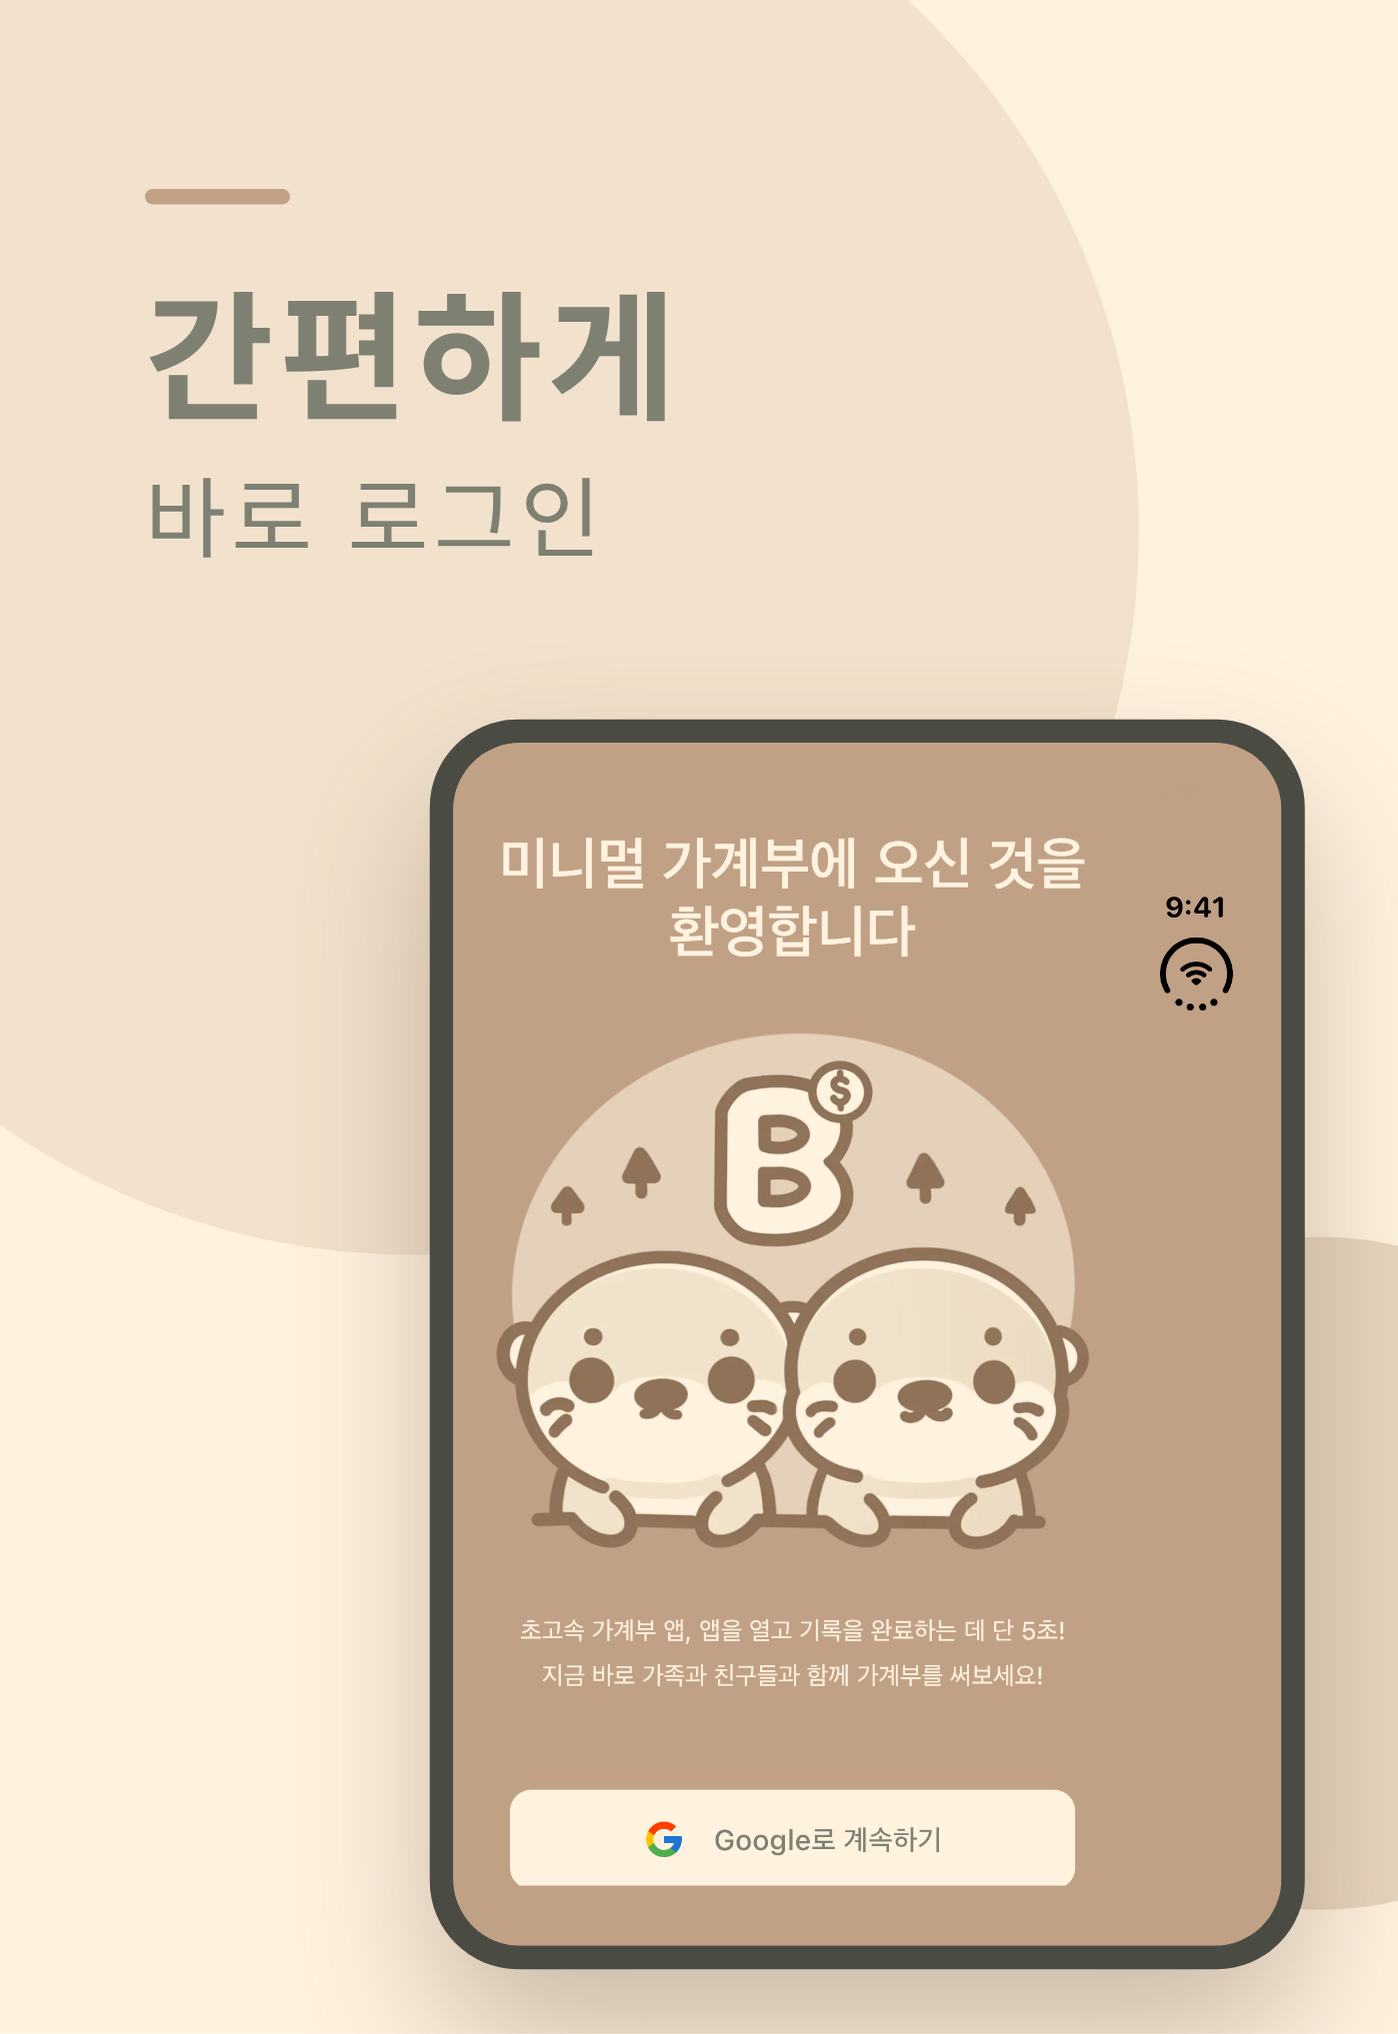
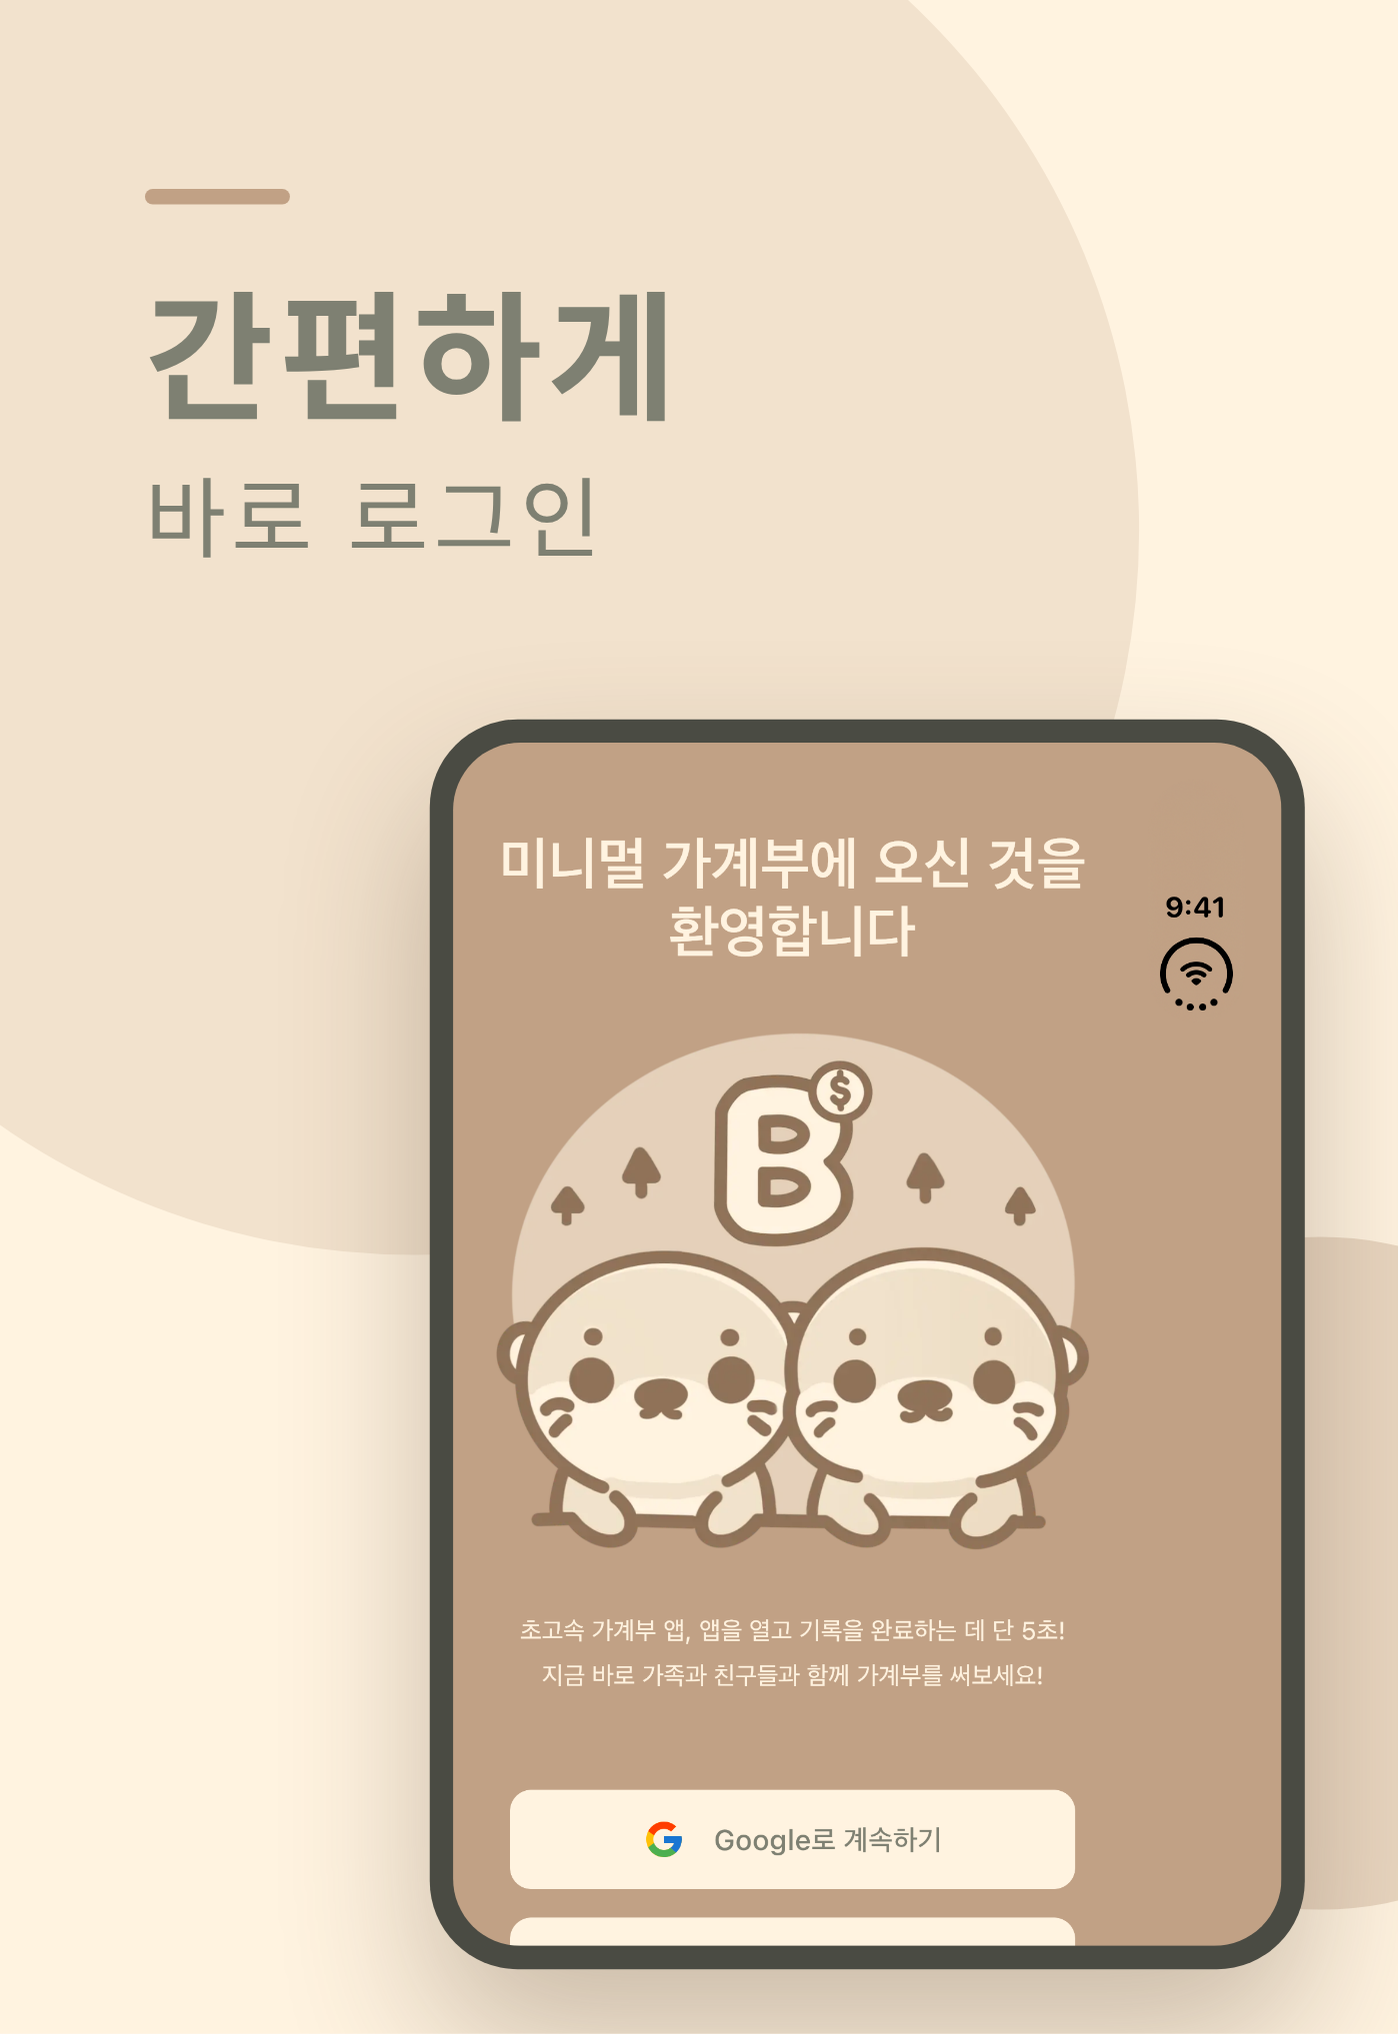
Use safe area insets on the auth screen

Changed region(s): [[0.3691, 0.9292, 0.769, 0.9602]]

diff --git a/feature/auth/src/commonMain/kotlin/com/kevlina/budgetplus/feature/auth/ui/AuthContent.kt b/feature/auth/src/commonMain/kotlin/com/kevlina/budgetplus/feature/auth/ui/AuthContent.kt
@@ -5,12 +5,14 @@ import androidx.compose.foundation.layout.Arrangement
 import androidx.compose.foundation.layout.Box
 import androidx.compose.foundation.layout.Column
 import androidx.compose.foundation.layout.Spacer
+import androidx.compose.foundation.layout.WindowInsets
 import androidx.compose.foundation.layout.fillMaxHeight
 import androidx.compose.foundation.layout.fillMaxSize
 import androidx.compose.foundation.layout.fillMaxWidth
 import androidx.compose.foundation.layout.height
 import androidx.compose.foundation.layout.padding
 import androidx.compose.foundation.layout.size
+import androidx.compose.foundation.layout.windowInsetsPadding
 import androidx.compose.foundation.rememberScrollState
 import androidx.compose.foundation.verticalScroll
 import androidx.compose.runtime.Composable
@@ -22,6 +24,7 @@ import com.kevlina.budgetplus.core.theme.LocalAppColors
 import com.kevlina.budgetplus.core.ui.AppTheme
 import com.kevlina.budgetplus.core.ui.InfiniteCircularProgress
 import com.kevlina.budgetplus.core.ui.containerPadding
+import com.kevlina.budgetplus.core.ui.safeArea
 import com.kevlina.budgetplus.feature.auth.isAppleSignInAvailable
 
 @Composable
@@ -43,6 +46,7 @@ fun AuthContent(
                 .fillMaxHeight()
                 .verticalScroll(rememberScrollState())
                 .containerPadding()
+                .windowInsetsPadding(WindowInsets.safeArea)
                 .padding(vertical = 32.dp)
         ) {
 
@@ -87,6 +91,12 @@ fun AuthContent(
 @Preview
 @Composable
 private fun AuthContent_Preview() = AppTheme {
+    AuthContent(signInWithGoogle = {}, signInWithApple = {}, isLoading = false)
+}
+
+@Preview(heightDp = 480)
+@Composable
+private fun AuthContentCompact_Preview() = AppTheme {
     AuthContent(signInWithGoogle = {}, signInWithApple = {}, isLoading = false)
 }
 

diff --git a/feature/auth/src/commonMain/kotlin/com/kevlina/budgetplus/feature/auth/ui/AuthContentWide.kt b/feature/auth/src/commonMain/kotlin/com/kevlina/budgetplus/feature/auth/ui/AuthContentWide.kt
@@ -5,10 +5,12 @@ import androidx.compose.foundation.layout.Arrangement
 import androidx.compose.foundation.layout.Box
 import androidx.compose.foundation.layout.Column
 import androidx.compose.foundation.layout.Row
+import androidx.compose.foundation.layout.WindowInsets
 import androidx.compose.foundation.layout.fillMaxSize
 import androidx.compose.foundation.layout.fillMaxWidth
 import androidx.compose.foundation.layout.padding
 import androidx.compose.foundation.layout.size
+import androidx.compose.foundation.layout.windowInsetsPadding
 import androidx.compose.runtime.Composable
 import androidx.compose.ui.Alignment
 import androidx.compose.ui.Modifier
@@ -17,6 +19,7 @@ import androidx.compose.ui.unit.dp
 import com.kevlina.budgetplus.core.theme.LocalAppColors
 import com.kevlina.budgetplus.core.ui.AppTheme
 import com.kevlina.budgetplus.core.ui.InfiniteCircularProgress
+import com.kevlina.budgetplus.core.ui.safeArea
 import com.kevlina.budgetplus.feature.auth.isAppleSignInAvailable
 
 @Composable
@@ -31,6 +34,7 @@ fun AuthContentWide(
         modifier = Modifier
             .fillMaxSize()
             .background(LocalAppColors.current.primary)
+            .windowInsetsPadding(WindowInsets.safeArea)
             .padding(horizontal = 32.dp)
     ) {
 

diff --git a/feature/auth/src/commonMain/kotlin/com/kevlina/budgetplus/feature/auth/ui/AuthBinding.kt b/feature/auth/src/commonMain/kotlin/com/kevlina/budgetplus/feature/auth/ui/AuthBinding.kt
@@ -1,14 +1,16 @@
 package com.kevlina.budgetplus.feature.auth.ui
 
 import androidx.compose.foundation.background
+import androidx.compose.foundation.layout.WindowInsets
 import androidx.compose.foundation.layout.fillMaxSize
-import androidx.compose.foundation.layout.systemBarsPadding
+import androidx.compose.foundation.layout.windowInsetsPadding
 import androidx.compose.runtime.Composable
 import androidx.compose.runtime.getValue
 import androidx.compose.ui.Modifier
 import androidx.lifecycle.compose.collectAsStateWithLifecycle
 import com.kevlina.budgetplus.core.theme.LocalAppColors
 import com.kevlina.budgetplus.core.ui.AdaptiveScreen
+import com.kevlina.budgetplus.core.ui.safeArea
 import com.kevlina.budgetplus.feature.auth.CommonAuthViewModel
 
 @Composable
@@ -22,8 +24,7 @@ fun AuthBinding(
     AdaptiveScreen(
         modifier = Modifier
             .fillMaxSize()
-            .background(LocalAppColors.current.primary)
-            .systemBarsPadding(),
+            .background(LocalAppColors.current.primary),
         regularContent = {
             AuthContent(
                 signInWithGoogle = signInWithGoogle,
